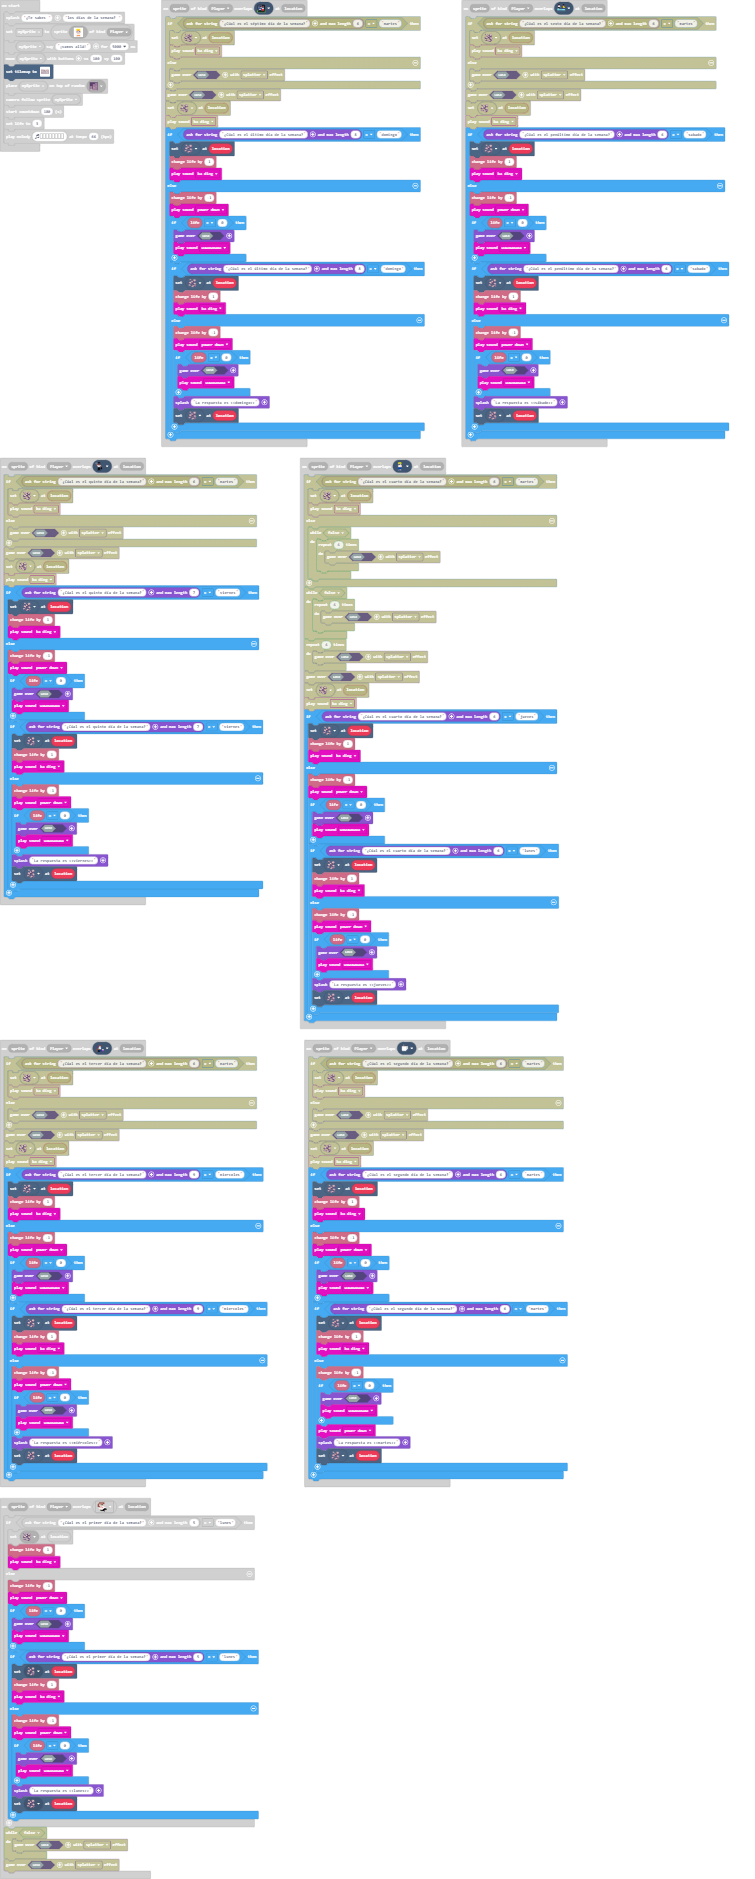
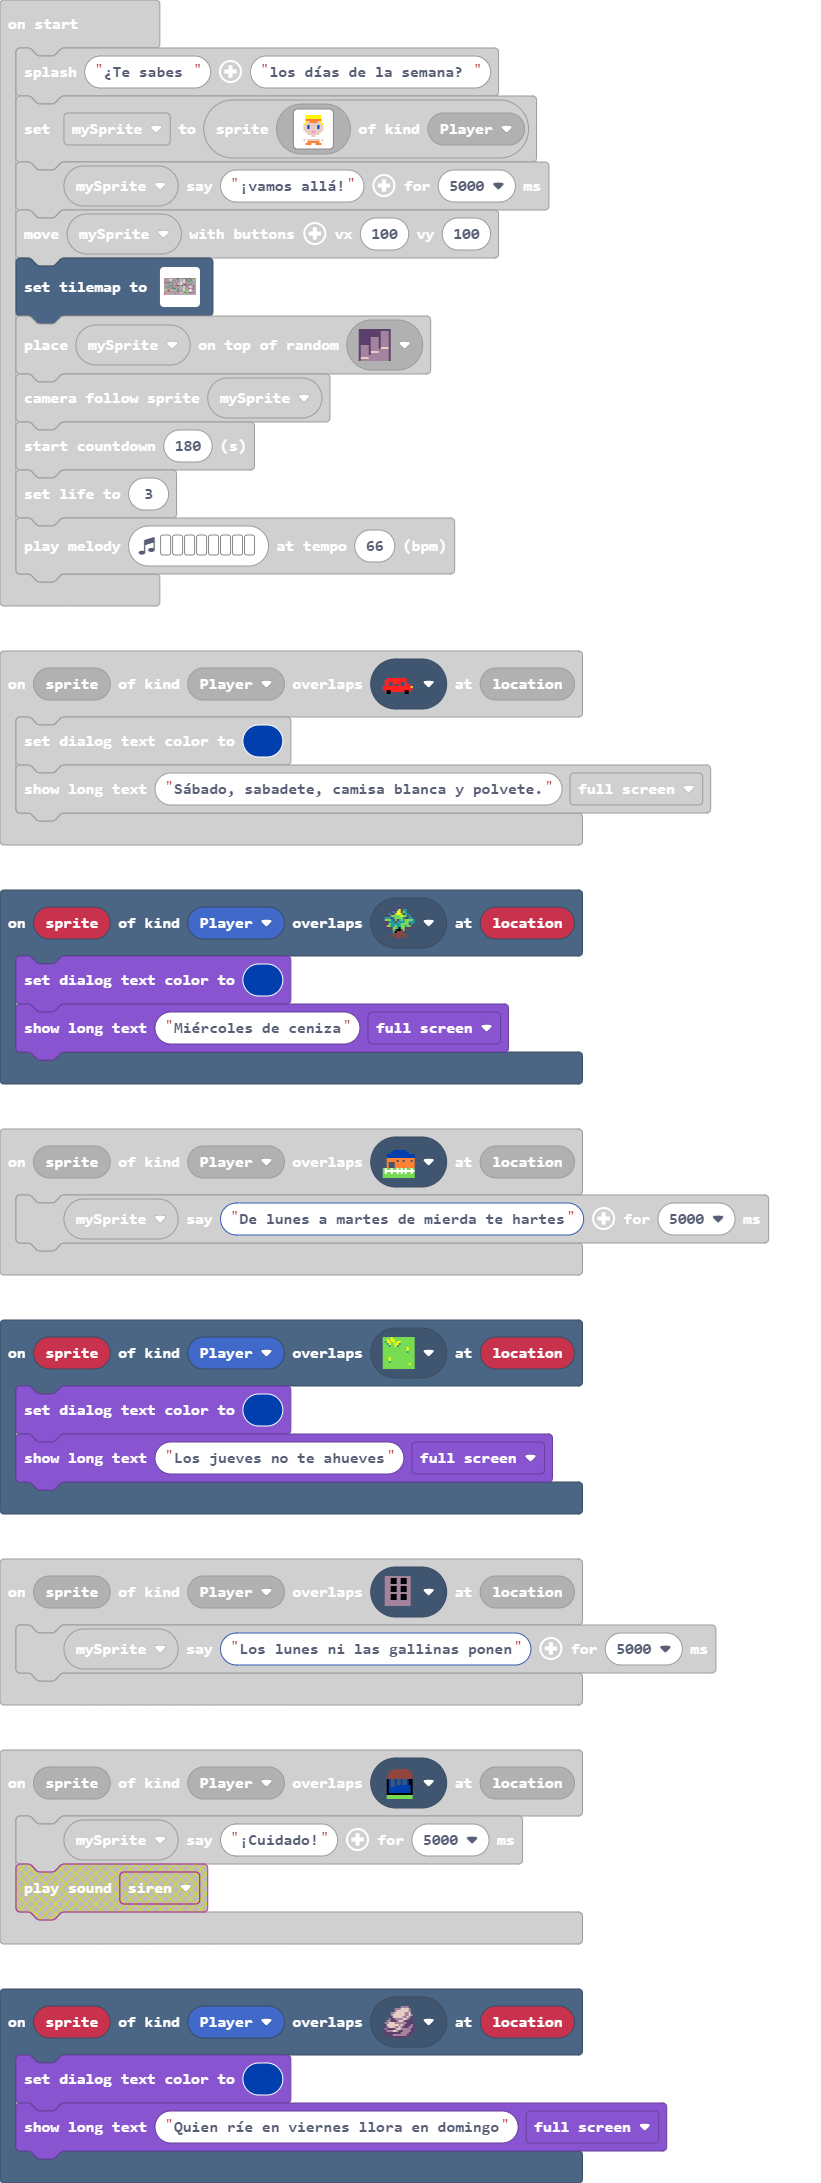
Update main.blocks, main.ts, tilemap.g.jres, tilemap.g.ts

diff --git a/main.ts b/main.ts
@@ -2,7 +2,8 @@ scene.onOverlapTile(SpriteKind.Player, myTiles.tile2, function (sprite, location
     game.over(true, effects.hearts)
 })
 scene.onOverlapTile(SpriteKind.Player, sprites.castle.rock1, function (sprite, location) {
-    mySprite.say("Sobrevivir, pero supervivencia", 5000)
+    game.setDialogTextColor(8)
+    game.showLongText("Quien ríe en viernes llora en domingo", DialogLayout.Full)
 })
 scene.onOverlapTile(SpriteKind.Player, myTiles.tile4, function (sprite, location) {
     if (game.askForString("¿Cúal es el quinto día de la semana?", 7) == "viernes") {
@@ -61,11 +62,8 @@ scene.onOverlapTile(SpriteKind.Player, myTiles.tile8, function (sprite, location
     }
 })
 scene.onOverlapTile(SpriteKind.Player, sprites.castle.saplingPine, function (sprite, location) {
-    mySprite.say("Los arbustos no te detendrán", 5000)
-})
-scene.onOverlapTile(SpriteKind.Player, sprites.builtin.crowd4, function (sprite, location) {
-    mySprite.say("¡Cuidado!", 5000)
-    music.siren.play()
+    game.setDialogTextColor(8)
+    game.showLongText("Miércoles de ceniza", DialogLayout.Full)
 })
 scene.onOverlapTile(SpriteKind.Player, myTiles.tile9, function (sprite, location) {
     if (game.askForString("¿Cúal es el segundo día de la semana?", 6) == "martes") {
@@ -95,9 +93,15 @@ scene.onOverlapTile(SpriteKind.Player, myTiles.tile9, function (sprite, location
         }
     }
 })
-scene.onOverlapTile(SpriteKind.Player, sprites.dungeon.chestClosed, function (sprite, location) {
+scene.onOverlapTile(SpriteKind.Player, myTiles.tile11, function (sprite, location) {
     game.setDialogTextColor(8)
     game.showLongText("Sábado, sabadete, camisa blanca y polvete.", DialogLayout.Full)
+})
+scene.onOverlapTile(SpriteKind.Player, myTiles.tile12, function (sprite, location) {
+    mySprite.say("De lunes a martes de mierda te hartes", 5000)
+})
+scene.onOverlapTile(SpriteKind.Player, myTiles.tile7, function (sprite, location) {
+    mySprite.say("Los lunes ni las gallinas ponen", 5000)
 })
 scene.onOverlapTile(SpriteKind.Player, myTiles.tile6, function (sprite, location) {
     if (game.askForString("¿Cúal es el último día de la semana?", 8) == "domingo") {
@@ -154,6 +158,13 @@ scene.onOverlapTile(SpriteKind.Player, myTiles.tile10, function (sprite, locatio
             tiles.setTileAt(location, sprites.castle.rock2)
         }
     }
+})
+scene.onOverlapTile(SpriteKind.Player, sprites.castle.tileGrass1, function (sprite, location) {
+    game.setDialogTextColor(8)
+    game.showLongText("Los jueves no te ahueves", DialogLayout.Full)
+})
+scene.onOverlapTile(SpriteKind.Player, myTiles.tile1, function (sprite, location) {
+    mySprite.say("¡Cuidado!", 5000)
 })
 scene.onOverlapTile(SpriteKind.Player, myTiles.tile5, function (sprite, location) {
     if (game.askForString("¿Cúal es el penúltimo día de la semana?", 6) == "sabado") {
@@ -233,20 +244,20 @@ mySprite = sprites.create(img`
     `, SpriteKind.Player)
 mySprite.say("¡vamos allá!", 5000)
 controller.moveSprite(mySprite, 100, 100)
[1 lines of base64/hex data omitted]
-    . . . . . . . . 2 2 2 2 2 2 2 2 2 2 . 2 . 2 2 
-    . 2 . . 2 2 2 . 2 . . . . . 2 . . . . 2 . 2 2 
[1 lines of base64/hex data omitted]
+    . . . . . . . . . 2 2 2 . 2 2 2 2 2 . 2 . 2 2 
+    . 2 . . 2 2 2 . 2 . . . . . 2 . . . . 2 . 2 . 
     . . . . . . 2 . . . 2 . 2 . 2 . 2 2 2 2 . 2 . 
     . 2 2 2 2 . 2 . 2 . . . 2 . 2 . . . . 2 . 2 . 
     2 2 2 . . . 2 . 2 . 2 2 2 . 2 2 2 . 2 2 . 2 . 
     . . . . 2 2 2 . 2 2 2 . . . 2 . 2 . . . . 2 . 
-    . 2 2 2 2 . . 2 2 . . . 2 . 2 . 2 . 2 2 . 2 . 
+    . 2 2 2 2 . . 2 . . . . 2 . 2 . 2 . 2 2 . 2 . 
     . . . . . . . 2 2 . 2 . 2 . 2 . . . 2 . . 2 . 
     2 2 . . . 2 2 . . . 2 . . . 2 . 2 . 2 2 . 2 . 
-    . . . 2 . . . . 2 2 2 . 2 2 2 . 2 . 2 2 . . . 
-    . 2 2 2 2 2 2 . 2 . . . . . . . 2 . 2 2 2 2 . 
+    . . . 2 . . . . 2 2 2 . 2 2 2 . 2 . . 2 . . . 
+    . 2 2 . 2 2 2 . 2 . . . . . . . 2 . 2 2 2 2 . 
     . . . . . . . . 2 . . . . . 2 . . . . . . . . 
-    `, [myTiles.tile0,sprites.builtin.brick,sprites.vehicle.roadHorizontal,sprites.vehicle.roadIntersection1,sprites.vehicle.roadVertical,sprites.vehicle.roadTurn4,sprites.dungeon.stairLarge,sprites.vehicle.roadIntersection3,sprites.vehicle.roadTurn1,sprites.vehicle.roadTurn2,sprites.vehicle.roadTurn3,sprites.vehicle.roadIntersection2,sprites.castle.shrub,sprites.castle.rock0,sprites.castle.rock2,sprites.castle.rock1,sprites.vehicle.roadIntersection4,sprites.castle.saplingPine,sprites.builtin.crowd1,sprites.dungeon.chestClosed,sprites.dungeon.collectibleRedCrystal,myTiles.tile2,myTiles.tile3,myTiles.tile5,myTiles.tile8,sprites.builtin.crowd4,myTiles.transparency16,myTiles.tile9,myTiles.tile4,myTiles.tile6,myTiles.tile10], TileScale.Sixteen))
+    `, [myTiles.tile0,sprites.builtin.brick,sprites.vehicle.roadHorizontal,sprites.vehicle.roadIntersection1,sprites.vehicle.roadVertical,sprites.vehicle.roadTurn4,sprites.dungeon.stairLarge,sprites.vehicle.roadIntersection3,sprites.vehicle.roadTurn1,sprites.vehicle.roadTurn2,sprites.vehicle.roadTurn3,sprites.vehicle.roadIntersection2,sprites.castle.shrub,sprites.vehicle.roadIntersection4,sprites.castle.saplingPine,myTiles.tile2,myTiles.tile3,myTiles.tile5,myTiles.tile8,myTiles.transparency16,myTiles.tile9,myTiles.tile4,myTiles.tile6,myTiles.tile10,myTiles.tile1,myTiles.tile7,myTiles.tile11,myTiles.tile12,sprites.castle.tileGrass1,sprites.castle.rock1], TileScale.Sixteen))
 tiles.placeOnRandomTile(mySprite, sprites.dungeon.stairLarge)
 scene.cameraFollowSprite(mySprite)
 info.startCountdown(180)

diff --git a/tilemap.g.ts b/tilemap.g.ts
@@ -24,6 +24,10 @@ namespace myTiles {
     export const tile9 = image.ofBuffer(hex``);
     //% fixedInstance jres blockIdentity=images._tile
     export const tile10 = image.ofBuffer(hex``);
+    //% fixedInstance jres blockIdentity=images._tile
+    export const tile11 = image.ofBuffer(hex``);
+    //% fixedInstance jres blockIdentity=images._tile
+    export const tile12 = image.ofBuffer(hex``);
 
 }
 // Auto-generated code. Do not edit.
